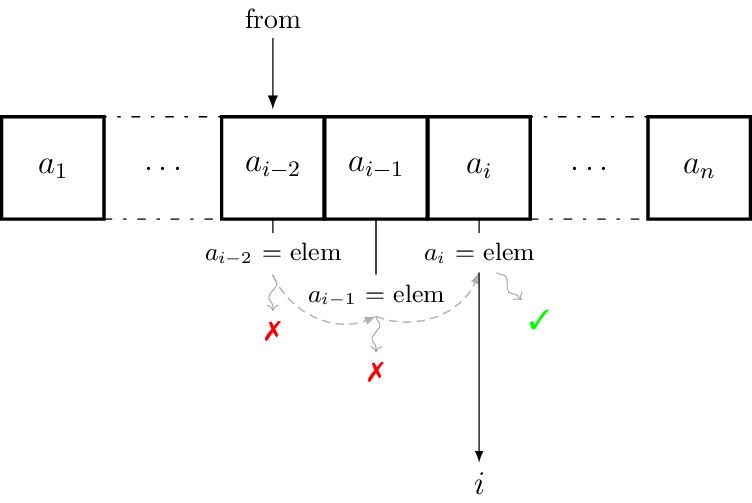
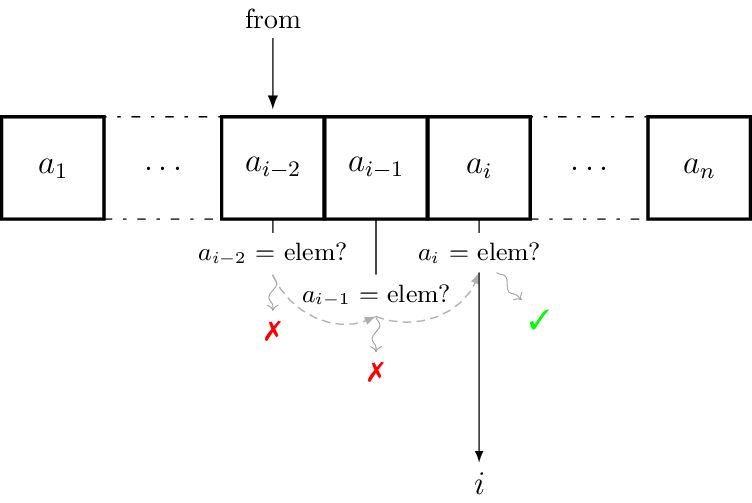
fix indexOf

diff --git a/src/images/indexOf.tex b/src/images/indexOf.tex
@@ -17,7 +17,7 @@
   i-1/\false/2em/below,
   i/\true/0.5em/310}
 {
-  \node (pa\i) [predicate, align=center, below=\s of a\i, pin={[function result, pin position=\p] \d}] {$a_{\i}$ = elem};
+  \node (pa\i) [predicate, align=center, below=\s of a\i, pin={[function result, pin position=\p] \d}] {$a_{\i}$ = elem?};
   \draw (a\i) -- (pa\i);
 }
 
